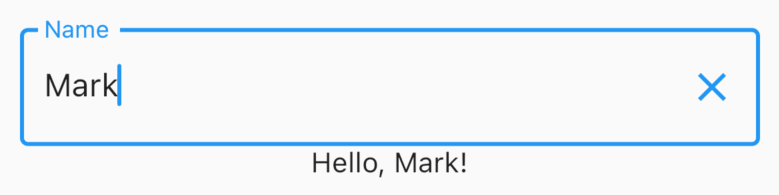
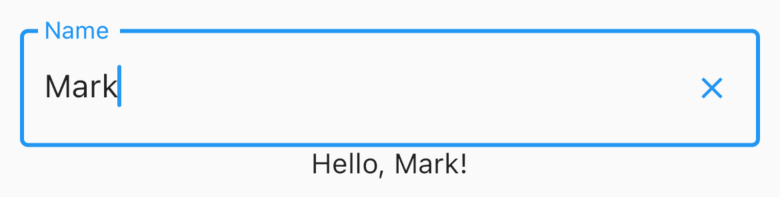
more Flutter

Changed region(s): [[0.0308, 0.7077, 0.9859, 0.8923], [0.0308, 0.1231, 0.9859, 0.2154], [0.8935, 0.3692, 0.9551, 0.5231]]

diff --git a/src/flutter.md b/src/flutter.md
@@ -2056,6 +2056,14 @@ class _Greet1State extends State<Greet1> {
   final tec = TextEditingController(text: 'Mark'); // initial value
 
   @override
+  void initState() {
+    super.initState();
+    // This triggers a rebuild of the widget
+    // so the suffixIcon can be reevaluated.
+    tec.addListener(() => setState(() {}));
+  }
+
+  @override
   Widget build(BuildContext context) {
     return Column(
       children: [
@@ -2064,10 +2072,12 @@ class _Greet1State extends State<Greet1> {
           decoration: InputDecoration(
             border: OutlineInputBorder(),
             labelText: 'Name',
-            suffixIcon: IconButton(
-              icon: Icon(Icons.close),
-              onPressed: () => setState(() => tec.text = ''),
-            ),
+            suffixIcon: tec.text.isEmpty
+                ? Container(width: 0)
+                : IconButton(
+                    icon: Icon(Icons.close, size: 18),
+                    onPressed: () => setState(() => tec.text = ''),
+                  ),
           ),
         ),
         // This is needed to listen for changes in the TextEditingController.
@@ -2114,14 +2124,17 @@ class _Greet2State extends State<Greet2> {
           decoration: InputDecoration(
             border: OutlineInputBorder(),
             labelText: 'Name',
-            suffixIcon: IconButton(
-              icon: Icon(Icons.close),
-              //TODO: Why doesn't this work?
-              onPressed: () => setState(() => name = ''),
-            ),
+            suffixIcon: name.isEmpty
+                ? Container(width: 0)
+                : IconButton(
+                    icon: Icon(Icons.close, size: 18),
+                    // This doesn't clear the text displayed!
+                    onPressed: () => setState(() => name = ''),
+                  ),
           ),
           initialValue: name,
           onChanged: (String value) {
+            // This doesn't clear the text displayed!
             setState(() => name = value);
           },
         ),
@@ -2174,13 +2187,20 @@ class _EasyTextFieldState extends State<EasyTextField> {
       decoration: InputDecoration(
         border: OutlineInputBorder(),
         labelText: widget.label,
-        suffixIcon: IconButton(
-          icon: Icon(Icons.close),
-          onPressed: () {
-            setState(() => tec.text = '');
-            widget.onChanged!('');
-          },
-        ),
+        suffixIcon: tec.text.isEmpty
+            ? Container(width: 0)
+            : IconButton(
+                icon: Icon(Icons.close, size: 18),
+                onPressed: () {
+                  setState(() => tec.text = '');
+                  // This causes a new value for
+                  // the "value" parameter to be passed in
+                  // which allows the suffixIcon to be reevaluated.
+                  // Unlike in Greet1 there is no need to
+                  // add a listener to the TextEditingController.
+                  widget.onChanged!('');
+                },
+              ),
       ),
       onChanged: widget.onChanged,
     );
@@ -2190,7 +2210,7 @@ class _EasyTextFieldState extends State<EasyTextField> {
 
 Here is an example of using the custom widget defined above.
 Note how much simpler this component is than
-the `Greet1` and `Greet2` components shown above.
+the `Greet1` and `Greet2` components.
 
 ```dart
 import 'package:flutter/material.dart';
